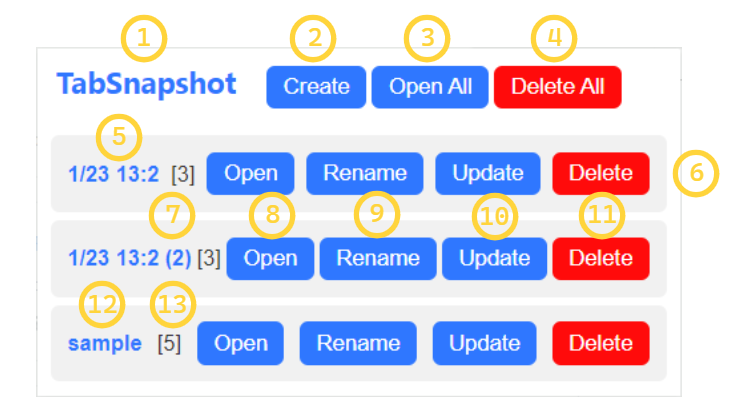
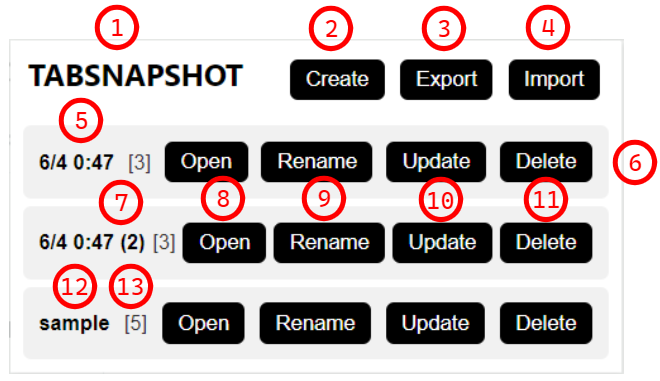
docs: update readme

diff --git a/README.md b/README.md
@@ -23,7 +23,7 @@ The current features supported by TABSNAPSHOT include:
 - Save all currently open tabs in Chrome as a snapshot item.
 - Open, Rename, Update and Delete saved snapshots.
 - Preview saved snapshots.
-- Open or Delete All saved snapshots at once.
+- Export or Import snapshots as a JSON file.
 
 **Note: All TABSNAPSHOT features are integrated into the plugin's pop-up panel. Make sure to have TABSNAPSHOT properly installed and pinned to your Chrome for these functionalities.**
 
@@ -33,9 +33,9 @@ The current features supported by TABSNAPSHOT include:
 
 2. Use `Create` to capture a snapshot of all currently open tab pages in Chrome.
 
-3. Use `Open All` to open all saved snapshots at once.
+3. Use `Export` to export snapshots to a JSON file.
 
-4. Use `Delete All` to delete all saved snapshots at once.
+4. Use `Import` to import the JSON file which includes the snapshots.
 
 5. The snapshots are named by default based on the creation time (down to minute).
 
